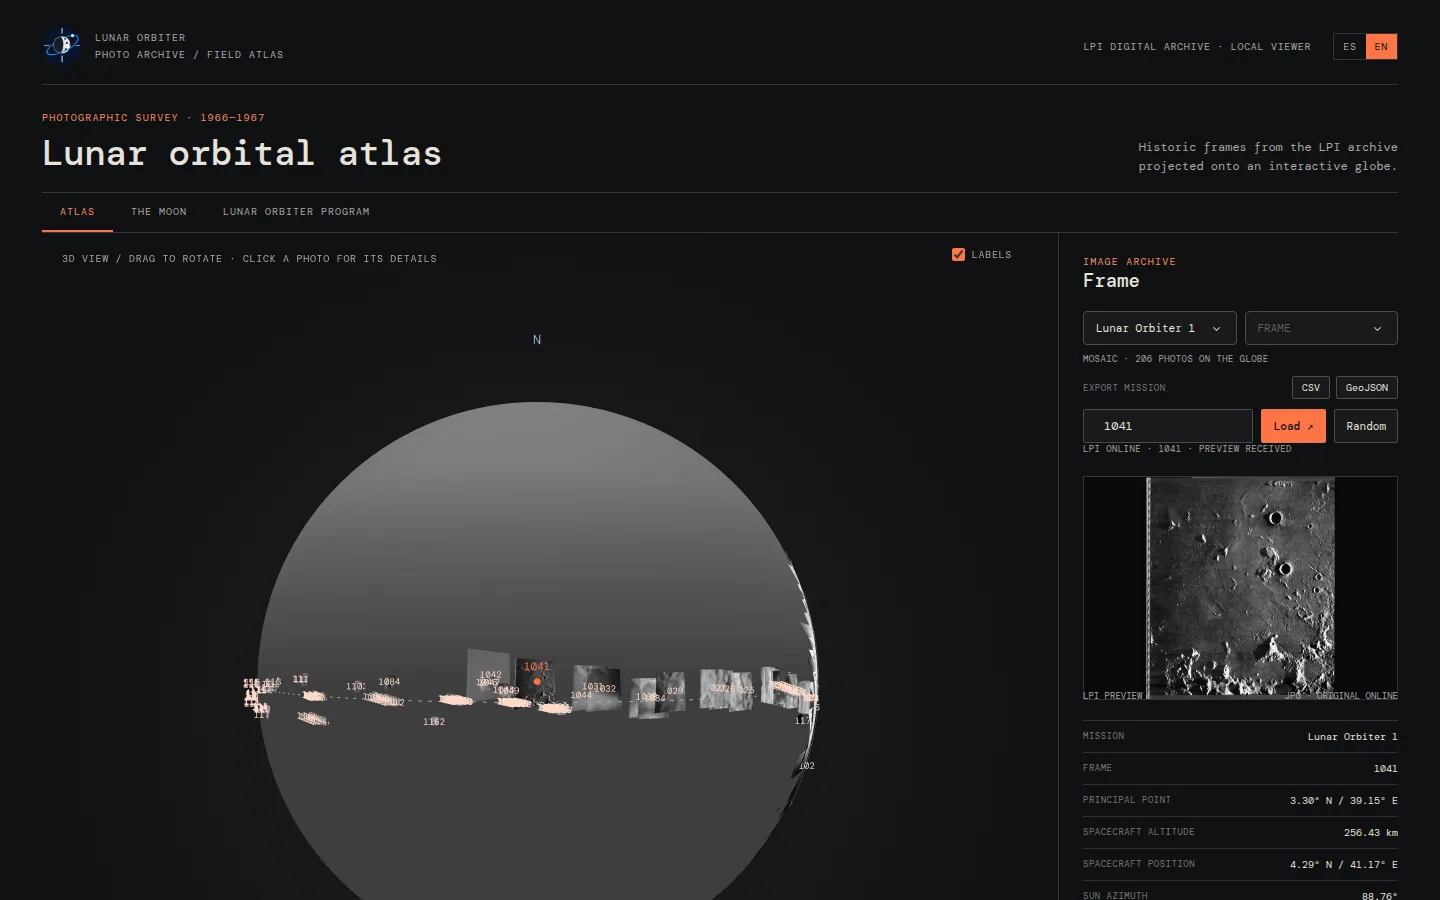
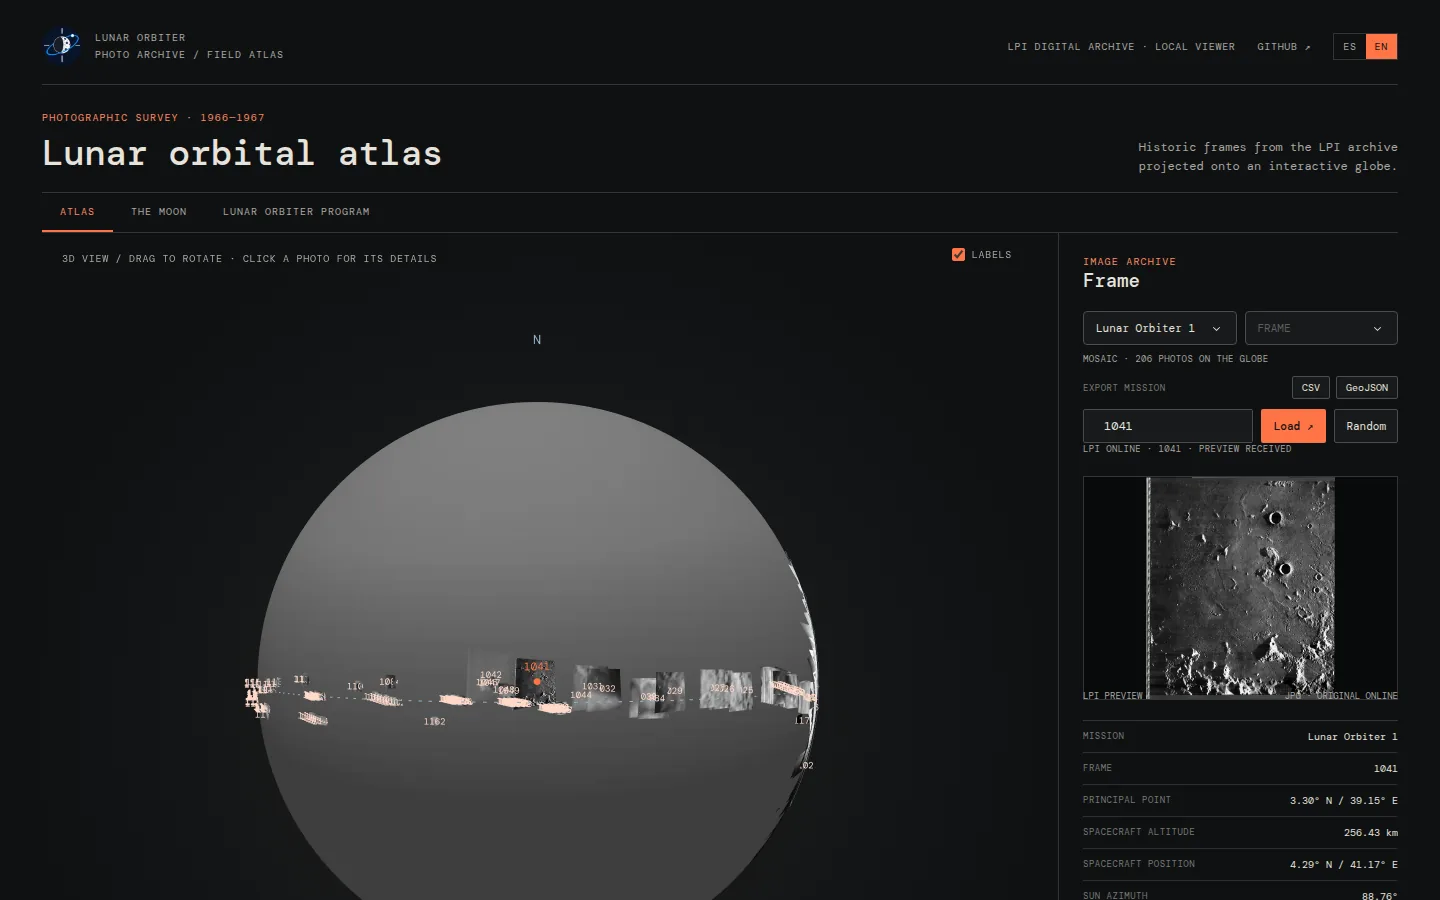
Review before release: adaptive near plane, docs, screenshots
- The near clipping plane follows the camera height (Plotly's 0.01 from
  afar, down to 0.0005 up close), so the normal view keeps full depth
  precision and overlapping photos do not flicker.
- README features and CHANGELOG reorganised; CLAUDE.md notes updated.
- Project-page screenshots show the GitHub link and the labels switch.

Changed region(s): [[0.1562, 0.5911, 0.4688, 0.8089], [0.7188, 0.0311, 0.9062, 0.0622], [0.5312, 0.7467, 0.5625, 0.7778]]

diff --git a/orbiter/assets/rotation.js b/orbiter/assets/rotation.js
@@ -15,9 +15,12 @@
     // up to 1.006 radii and their labels at 1.008 (orbiter/globe.py).
     const MIN_DISTANCE_RADII = 1.01;
     const MAX_DISTANCE_RADII = 12;
-    // Plotly's default near plane (0.01) would cut the ground below a close camera.
-    const Z_NEAR = 0.0005;
-    const Z_FAR = 50;
+    // Plotly's near plane (0.01) would cut the ground below a close camera, but
+    // a nearer plane costs depth precision (overlapping photos flicker). It
+    // follows the camera instead: a share of its height, within these bounds.
+    const Z_NEAR_MAX = 0.01;
+    const Z_NEAR_MIN = 0.0005;
+    const Z_NEAR_SHARE = 0.15;
 
     function globeScene(element) {
         const plot = element && element.closest && element.closest("#globe .js-plotly-plot");
@@ -31,14 +34,6 @@
     }
 
     function tune(scene) {
-        const glplot = scene.glplot;
-        if (glplot.zNear !== Z_NEAR) {
-            glplot.zNear = Z_NEAR;
-            glplot.zFar = Z_FAR;
-            if (glplot.redraw) {
-                glplot.redraw();
-            }
-        }
         // Eye units put the scene box (aspectratio) around the axis range, so
         // the Moon (radius 1 in data units) measures aspectratio / range span.
         const layout = scene.fullSceneLayout;
@@ -48,6 +43,16 @@
             radius * MIN_DISTANCE_RADII, radius * MAX_DISTANCE_RADII
         );
         const distance = scene.camera.distance;
+        const glplot = scene.glplot;
+        const zNear = Math.min(
+            Z_NEAR_MAX, Math.max(Z_NEAR_MIN, (distance - radius) * Z_NEAR_SHARE)
+        );
+        if (Math.abs(glplot.zNear - zNear) > 0.1 * zNear) {
+            glplot.zNear = zNear;
+            if (glplot.redraw) {
+                glplot.redraw();
+            }
+        }
         const height = (distance - radius) / (FULL_SPEED_DISTANCE - radius);
         scene.camera.rotateSpeed = clamp(height);
         // A wheel step moves the camera by a share of its distance; keep it a
@@ -74,5 +79,5 @@
         if (scene) {
             tune(scene);
         }
-    }, 500);
+    }, 250);
 })();

diff --git a/README.md b/README.md
@@ -20,12 +20,15 @@ Project page: <https://enriqueph.github.io/LUNAR-ORBITER-ATLAS/>
 ## Features
 
 - **Mission mosaic** — every frame of the selected mission is projected onto
-  the part of the Moon it photographed. Click a photo to show its details in
-  the side panel without moving the view, or press **Random** to turn to any
-  frame of the mission.
-  Each photo is labelled with its frame ID; the selected one turns orange,
-  and the **Labels** switch above the globe hides them.
-  Rotation slows down as you zoom in, so photos stay easy to pick up close.
+  the part of the Moon it photographed, labelled with its frame ID (the
+  **Labels** switch above the globe hides the IDs).
+- **Picking photos** — click a photo to show it in the side panel: it is the
+  one named in the hover label, the view stays where it is and its label
+  turns orange. The frame selector, a typed ID or **Random** turn the globe
+  to the photo and keep the zoom.
+- **Close-up navigation** — rotation and zoom slow down near the surface, and
+  the camera can come down to about 17 km above it. The view is kept when you
+  switch tabs.
 - **Frame details** — LPI preview, principal point, spacecraft altitude and
   position, illumination angles (sun azimuth, incidence, emission, phase),
   camera (80 mm or 610 mm), ground footprint in km, and a geometry check: the
@@ -35,7 +38,8 @@ Project page: <https://enriqueph.github.io/LUNAR-ORBITER-ATLAS/>
 - **Reference tabs** — summarised facts about the Moon and the Lunar Orbiter
   program, with their Wikipedia sources.
 - **English and Spanish** — switch with the **ES | EN** control in the top bar
-  (or open `?lang=en` / `?lang=es`).
+  (or open `?lang=en` / `?lang=es`). The logo opens the project page and
+  **GitHub** this repository.
 - Equator and north/south poles are marked on the globe; frames taken above
   1000 km are outlined and flagged in the side panel.
 

diff --git a/CHANGELOG.md b/CHANGELOG.md
@@ -17,15 +17,12 @@ First release.
   with the horizon, high-altitude frames turned to match their black sky.
 - Frame IDs labelled at the centre of each photo, with the selected one in
   orange; a **Labels** switch hides them and is remembered.
-- Rotation and zoom slow down near the surface, and the camera can come down
-  to about 17 km above it, so photos stay easy to pick up close. The view
-  stays put when switching tabs.
-- Clicking selects exactly the photo named in the hover label, also where
-  photos overlap.
-- The logo opens the project page and a **GitHub** link the repository.
 - Click a photo, pick one from the selector, type its ID or press **Random**
-  to show it in the side panel. A click leaves the view as it is; the other
+  to show it in the side panel. A click selects the photo named in the hover
+  label, even where photos overlap, and leaves the view as it is; the other
   ways turn the globe to the photo and keep the zoom.
+- Rotation and zoom slow down near the surface, and the camera can come down
+  to about 17 km above it. The view stays put when switching tabs.
 - Side panel: LPI preview, principal point, spacecraft position and altitude,
   illumination angles, camera, ground footprint in km, and a check of the
   LPI's emission angle against the one implied by the spacecraft position.
@@ -37,6 +34,7 @@ First release.
 
 - English and Spanish, switched with **ES | EN** or `?lang=`, and remembered
   in the browser.
+- The logo opens the project page and a **GitHub** link the repository.
 - Reference tabs on the Moon and the Lunar Orbiter program, summarised from
   Wikipedia (CC BY-SA 4.0).
 - DM Mono throughout, brand icon and favicons; works on phone-sized screens.

diff --git a/CLAUDE.md b/CLAUDE.md
@@ -77,10 +77,12 @@ make format    # ruff --fix + ruff format (obligatorio antes de commit)
   (`CONTENT["es"|"en"]`), texto CC BY-SA 4.0 resumido de Wikipedia.
 - `orbiter/assets/rotation.js` — antes de que Plotly procese un click o la rueda
   en el globo, escala `rotateSpeed` y `zoomSpeed` con la altura sobre la
-  superficie, limita el zoom a 1,01 radios (`view.setDistanceLimits`) y acerca el
-  plano de recorte (`glplot.zNear`). Radio en unidades de cámara =
-  `aspectratio / rango del eje` (0,4), no `dataScale`. Usa
-  internos de Plotly (`_fullLayout.scene._scene`): revísalo si se actualiza.
+  superficie, limita el zoom a 1,01 radios (`view.setDistanceLimits`) y ajusta el
+  plano de recorte (`glplot.zNear`) al 15 % de la altura (0,01 de lejos, como
+  Plotly: más cerca pierde precisión de profundidad y las teselas parpadean).
+  Radio en unidades de cámara = `aspectratio / rango del eje` (0,4), no
+  `dataScale`. Usa internos de Plotly (`_fullLayout.scene._scene`): revísalo si
+  se actualiza.
 - `orbiter/assets/style.css` — todo el CSS. **Única fuente: DM Mono** (pesos 300–500,
   sin 600/700), también en la figura de Plotly. Desplegables de Dash 4 tematizados con
   variables `--Dash-*`; su menú abierto va en un portal fuera de `.side-panel`.

diff --git a/PLAN.md b/PLAN.md
@@ -97,6 +97,9 @@
 - [x] El click selecciona la foto del hover (`customdata` del mosaico como lista:
       Dash lo relee de la figura por índice y fallaba con el array binario).
 - [x] Logo de la app enlazado a la web del proyecto y enlace «GITHUB ↗» al repo.
+- [x] Revisión previa a la release: plano de recorte adaptativo (0,01 de lejos,
+      como Plotly, para no perder precisión de profundidad), README y CHANGELOG
+      reordenados, capturas de la web con el enlace a GitHub.
 - [x] Release 1.0.0: versión en `pyproject.toml`, `CITATION.cff`, README y
       User-Agent; `CHANGELOG.md`; capturas de la web regeneradas; tag `v1.0.0`.
 
